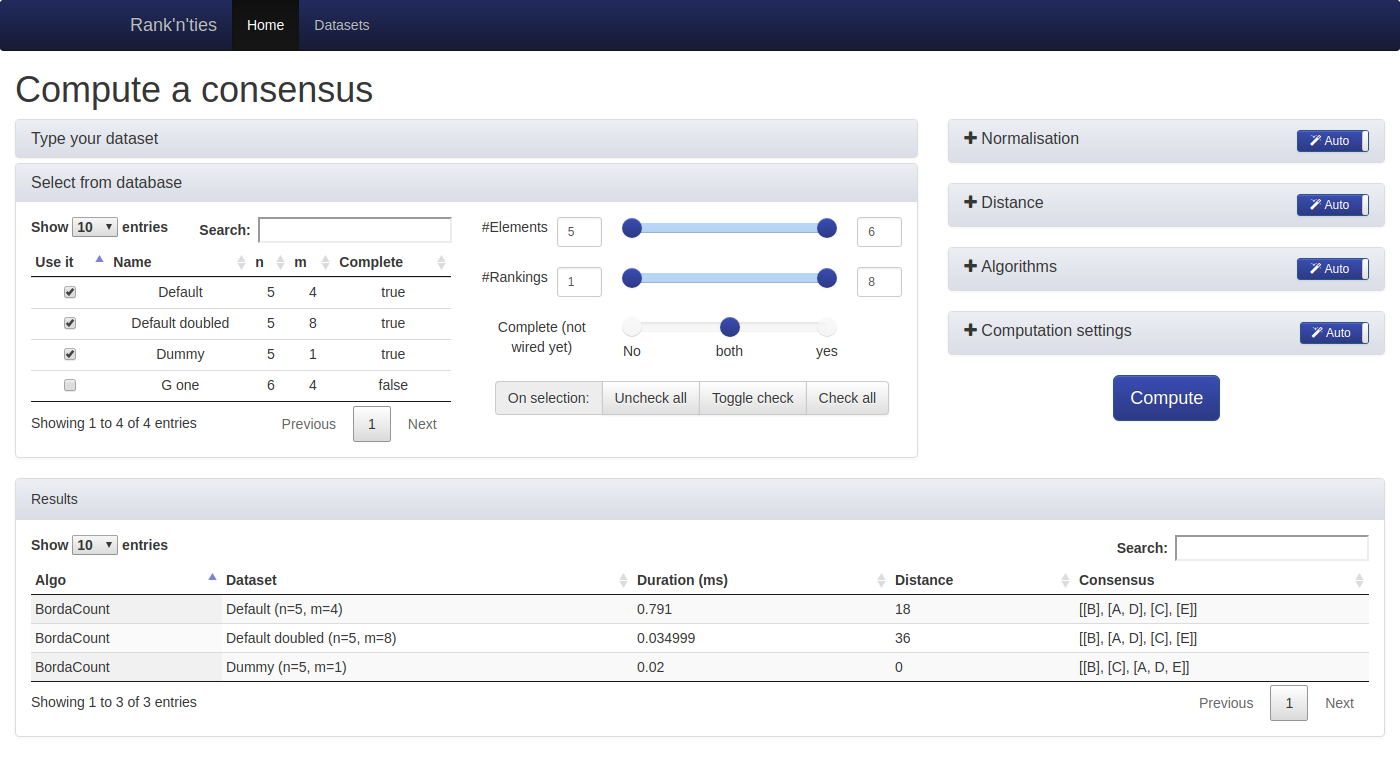
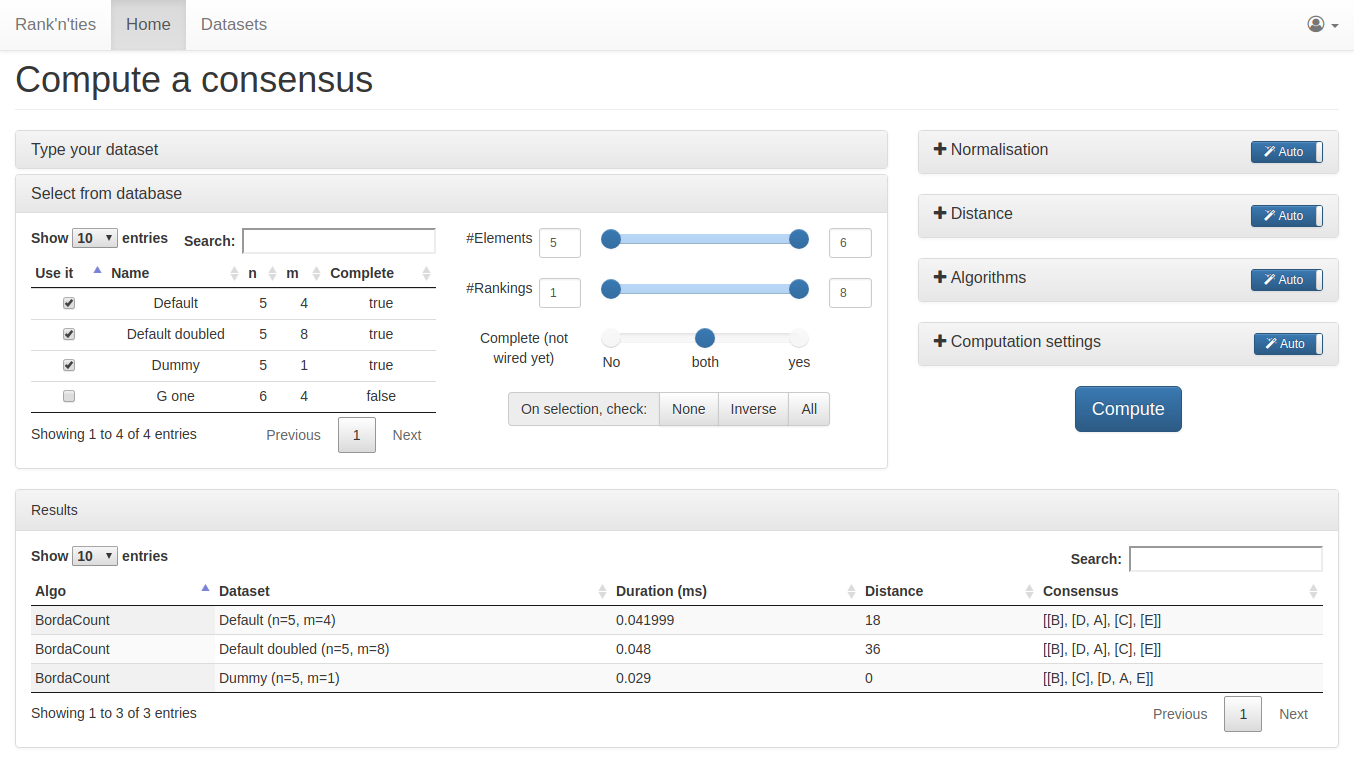
template improvment

diff --git a/sources/rnt/webui/templates/base.html b/sources/rnt/webui/templates/base.html
@@ -48,7 +48,7 @@
 </head>
 <body>
 <nav class="navbar navbar-default navbar-fixed-top">
-    <div class="container">
+    <div class="container-fluid">
         <div class="navbar-header">
             <button type="button" class="navbar-toggle collapsed" data-toggle="collapse" data-target="#navbar"
                     aria-expanded="false" aria-controls="navbar">
@@ -84,6 +84,7 @@
 </nav>
 
 <div class="{% block container-class %}container{% endblock %}">
+    <div class="row">
     <div class="page-header">
         {% block content_page_title %}
         <div class="col-xs-12">
@@ -95,6 +96,7 @@
         </div>
     </div>
     {% block content %}{% endblock %}
+    </div>
 </div>
 </body>
 </html>
